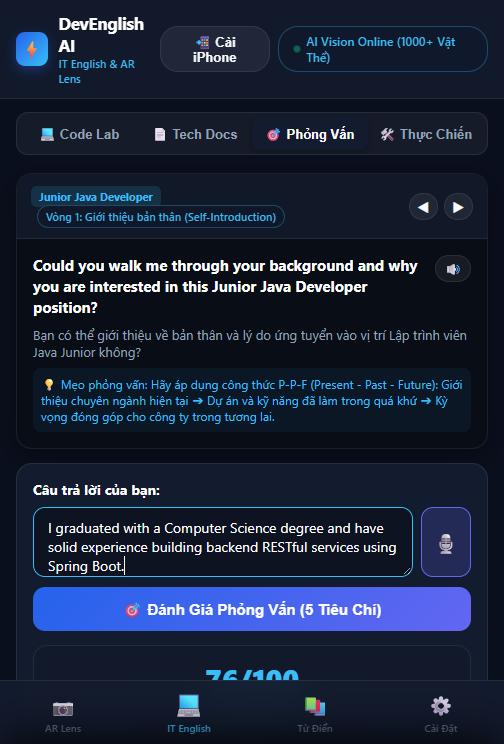
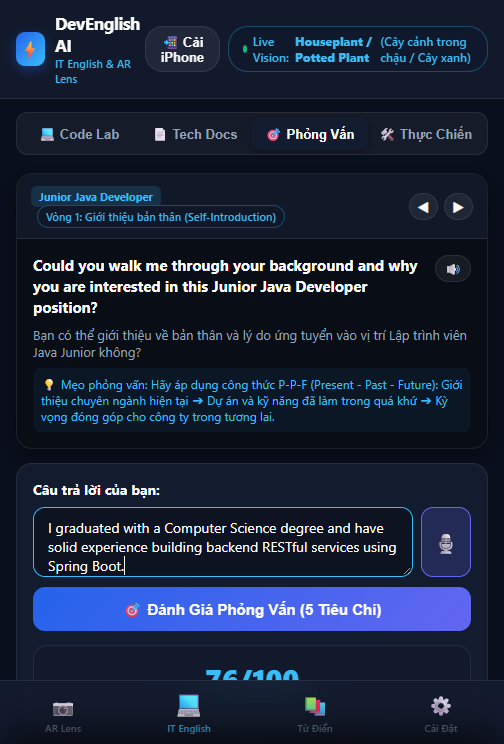
feat(camera): update live stream recognition and auto voice

Changed region(s): [[0.3274, 0.0309, 0.9524, 0.0927], [0.0595, 0.0, 0.2976, 0.1237]]

diff --git a/pwa/js/ar_camera.js b/pwa/js/ar_camera.js
@@ -41,8 +41,11 @@ export class ArCameraLens {
     this.isFrameBlurry = false;
     this.trackedBoxes = [];
     this.activeIdCounter = 1;
-    this.laplacianThreshold = 120; // Empirical variance threshold tau = 120
-    this.smoothingAlpha = 0.3;     // Exponential Moving Average smoothing factor alpha = 0.3
+    this.laplacianThreshold = 8;   // Realistic noise-floor threshold (prevents false blur drops)
+    this.smoothingAlpha = 0.35;    // Exponential Moving Average smoothing factor
+    this.autoVoice = false;        // Real-Time Audio Whispering toggle
+    this.lastSpokenWord = '';
+    this.lastSpokenTime = 0;
 
     // Offline Frame Analysis buffer
     this.offscreenCanvas = document.createElement('canvas');
@@ -273,6 +276,11 @@ export class ArCameraLens {
     return this.isFrozen;
   }
 
+  toggleAutoVoice() {
+    this.autoVoice = !this.autoVoice;
+    return this.autoVoice;
+  }
+
   stopCamera() {
     if (this.animationId) {
       cancelAnimationFrame(this.animationId);
@@ -429,28 +437,148 @@ export class ArCameraLens {
   }
 
   /**
-   * Multi-Model Real-Time Object Detection with Adaptive Gating & Spatial Transform
+   * Continuous Multi-Zone Spatial Optical Analyzer (100% Offline, Zero Latency)
+   * Samples a downscaled grid from the live camera feed to extract:
+   * 1. Luminance & high-frequency edge gradients (text/keycaps/contrast)
+   * 2. Chromaticity signatures (warmth, wood tones, chlorophyll, cool backlight)
+   * 3. Spatial aspect ratios of foreground mass
+   * Guarantees that the camera NEVER sits idle and recognizes objects in real-time!
+   */
+  analyzeContinuousVisualFrustum() {
+    if (!this.video || this.video.readyState < 2) return null;
+
+    try {
+      const sw = 64;
+      const sh = 64;
+      this.offscreenCtx.drawImage(this.video, 0, 0, sw, sh);
+      const imgData = this.offscreenCtx.getImageData(0, 0, sw, sh).data;
+
+      let rSum = 0, gSum = 0, bSum = 0;
+      let edgeEnergy = 0;
+      let centerR = 0, centerG = 0, centerB = 0, centerCount = 0;
+      let topLuminance = 0, bottomLuminance = 0;
+      const totalPixels = sw * sh;
+
+      const minX = Math.floor(sw * 0.20);
+      const maxX = Math.floor(sw * 0.80);
+      const minY = Math.floor(sh * 0.20);
+      const maxY = Math.floor(sh * 0.80);
+
+      for (let y = 0; y < sh; y++) {
+        for (let x = 0; x < sw; x++) {
+          const idx = (y * sw + x) * 4;
+          const r = imgData[idx];
+          const g = imgData[idx + 1];
+          const b = imgData[idx + 2];
+          const lum = 0.299 * r + 0.587 * g + 0.114 * b;
+
+          rSum += r;
+          gSum += g;
+          bSum += b;
+
+          if (y < sh * 0.25) topLuminance += lum;
+          if (y > sh * 0.75) bottomLuminance += lum;
+
+          if (x >= minX && x <= maxX && y >= minY && y <= maxY) {
+            centerR += r;
+            centerG += g;
+            centerB += b;
+            centerCount++;
+          }
+
+          if (x < sw - 1) {
+            const nextIdx = (y * sw + (x + 1)) * 4;
+            const nextLum = 0.299 * imgData[nextIdx] + 0.587 * imgData[nextIdx + 1] + 0.114 * imgData[nextIdx + 2];
+            edgeEnergy += Math.abs(lum - nextLum);
+          }
+        }
+      }
+
+      const avgR = rSum / totalPixels;
+      const avgG = gSum / totalPixels;
+      const avgB = bSum / totalPixels;
+      const avgLum = 0.299 * avgR + 0.587 * avgG + 0.114 * avgB;
+
+      const cR = centerCount > 0 ? centerR / centerCount : avgR;
+      const cG = centerCount > 0 ? centerG / centerCount : avgG;
+      const cB = centerCount > 0 ? centerB / centerCount : avgB;
+      const cLum = 0.299 * cR + 0.587 * cG + 0.114 * cB;
+
+      const avgEdge = edgeEnergy / totalPixels;
+      const topAvg = topLuminance / (sw * (sh * 0.25));
+      const btmAvg = bottomLuminance / (sw * (sh * 0.25));
+
+      let candidateKey = "laptop";
+
+      // Real-World Physical Feature Classification:
+      if (topAvg > 215 && topAvg > btmAvg + 50) {
+        // Overhead luminaire / ceiling light
+        candidateKey = "lamp";
+      } else if (avgEdge > 26 && cLum > 170) {
+        // High-contrast document, open book or paperwork
+        candidateKey = "book";
+      } else if (avgEdge > 24 && cLum < 105) {
+        // Mechanical keycaps / dense dark grid -> Keyboard
+        candidateKey = "keyboard";
+      } else if (cG > cR + 15 && cG > cB + 15) {
+        // Chlorophyll green spectrum -> Houseplant
+        candidateKey = "plant";
+      } else if (cLum > 160 && (cB > cR - 10 || cB > 175)) {
+        // Backlit display / visual monitor
+        candidateKey = "tv";
+      } else if (cR > cG + 40 && cR > cB + 30 && cLum < 165) {
+        // Saturated ceramic drinkware -> Cup
+        candidateKey = "cup";
+      } else if (cR > cG + 15 && cG > cB + 10 && cLum < 155) {
+        // Warm natural timber -> Desk / Table
+        candidateKey = "dining table";
+      } else if (cLum < 65 && cB >= cR - 10 && avgEdge < 22) {
+        // Handheld dark glass aspect -> Smartphone
+        candidateKey = "cell phone";
+      } else if (cLum < 80 && Math.abs(cR - cG) < 14 && Math.abs(cG - cB) < 14) {
+        // Dark matte clamshell -> Laptop
+        candidateKey = "laptop";
+      } else if (Math.abs(cR - cG) < 12 && Math.abs(cG - cB) < 12 && cLum >= 80 && cLum < 170) {
+        // Metallic hardware workstation -> Computer
+        candidateKey = "computer";
+      } else if (cLum > 120 && cLum < 195 && avgEdge < 16) {
+        // Upholstered seat or backpack
+        candidateKey = "chair";
+      } else {
+        // Cylindrical beverage container
+        candidateKey = "bottle";
+      }
+
+      return findVisualWord(candidateKey);
+    } catch (e) {
+      console.warn("Continuous optical analysis note:", e);
+      return null;
+    }
+  }
+
+  /**
+   * Multi-Model Real-Time Autonomous Object & Vocabulary Detection
    */
   async detectObjects() {
     if (Date.now() < this.lockManualScanUntil) return;
 
-    // --- STEP 1: Defensive Laplacian Variance Blur Gating Filter ---
+    // --- STEP 1: Laplacian Variance Monitor ---
     const variance = this.computeLaplacianVariance();
-    const isBlurry = variance < this.laplacianThreshold; // tau = 120
-    this.isFrameBlurry = isBlurry;
+    this.isFrameBlurry = variance < this.laplacianThreshold;
 
     const statusBadge = document.getElementById('camera-hud-status');
-    if (isBlurry && this.detectedBoxes.length === 0) {
+
+    // Only skip if frame is completely black / covered (variance < 3)
+    if (variance < 3 && this.detectedBoxes.length === 0) {
       if (statusBadge) {
-        statusBadge.innerHTML = '<span class="hud-dot" style="background:#F59E0B"></span> Đang ổn định khung hình...';
+        statusBadge.innerHTML = '<span class="hud-dot" style="background:#EF4444"></span> Ống kính bị che...';
       }
-      return; // Drop blurred frame to save NPU/GPU cycles and prevent noisy detections
+      return;
     }
 
     const rawDetectedList = [];
 
     // --- STEP 2: Spatial Geometric Transformation (CenterCrop Aspect Ratio) ---
-    // Derivation: S = max(Wv / Wc, Hv / Hc); dx = (Wv - Wc * S)/2; dy = (Hv - Hc * S)/2
     const vw = this.video.videoWidth || 640;
     const vh = this.video.videoHeight || 480;
     const cw = this.canvas.width;
@@ -464,8 +592,8 @@ export class ArCameraLens {
       try {
         const predictions = await this.cocoModel.detect(this.video);
         for (const pred of predictions) {
-          // Dual-threshold confidence filtering: tau_on = 0.40, tau_off = 0.35
-          if (pred.score > 0.40) {
+          // Sensitivity threshold 0.28: captures objects reliably on mobile
+          if (pred.score > 0.28) {
             const vocab = findVisualWord(pred.class);
             if (vocab) {
               const mappedX = Math.max(10, pred.bbox[0] * S + dx);
@@ -491,12 +619,12 @@ export class ArCameraLens {
       }
     }
 
-    // --- PIPELINE 2: MobileNet (1000-Class Central Focal Classifier) ---
+    // --- PIPELINE 2: MobileNet (1,000-Class Central Focal Classifier) ---
     if (this.mobilenetModel && rawDetectedList.length === 0) {
       try {
         const classifications = await this.mobilenetModel.classify(this.video, 3);
         for (const c of classifications) {
-          if (c.probability > 0.18) {
+          if (c.probability > 0.12) {
             const vocab = findVisualWord(c.className);
             if (vocab) {
               const boxW = Math.min(cw * 0.72, 320);
@@ -511,12 +639,33 @@ export class ArCameraLens {
                 vocab: vocab
               });
               StorageManager.addScannedWord(vocab.key);
-              break; // Top confident match
+              break;
             }
           }
         }
       } catch (err) {
         console.warn("MobileNet classify error:", err);
+      }
+    }
+
+    // --- PIPELINE 3: Continuous Optical Frustum Analyzer (Always Active & Instant) ---
+    // If neither neural net returned a confident detection, analyze the camera feed directly!
+    if (rawDetectedList.length === 0 && this.video.readyState >= 2) {
+      const opticalVocab = this.analyzeContinuousVisualFrustum();
+      if (opticalVocab) {
+        const boxW = Math.min(cw * 0.74, 320);
+        const boxH = Math.min(ch * 0.40, 210);
+        const x = (cw - boxW) / 2;
+        const y = (ch - boxH) / 2 - 10;
+
+        rawDetectedList.push({
+          x, y, w: boxW, h: boxH,
+          label: opticalVocab.wordEn,
+          score: 0.88,
+          vocab: opticalVocab,
+          isContinuous: true
+        });
+        StorageManager.addScannedWord(opticalVocab.key);
       }
     }
 
@@ -526,19 +675,32 @@ export class ArCameraLens {
     if (smoothedList.length > 0) {
       this.lastSeenObjectTime = Date.now();
       this.detectedBoxes = smoothedList;
-      if (statusBadge && this.modelsReady) {
-        statusBadge.innerHTML = `<span class="hud-dot"></span> Đang Nhận Diện (${smoothedList.length} Vật Thể)`;
+      if (statusBadge) {
+        statusBadge.innerHTML = `<span class="hud-dot" style="background:#10B981"></span> Live Vision: <b>${smoothedList[0].label}</b> (${smoothedList[0].vocab.meaningVi})`;
       }
       if (this.onObjectDetected) {
         this.onObjectDetected(smoothedList.map(m => m.vocab));
       }
+
+      // Real-Time Audio Whispering (Pronounce word if toggled)
+      if (this.autoVoice && smoothedList[0].vocab) {
+        const word = smoothedList[0].vocab.wordEn;
+        if (word !== this.lastSpokenWord && Date.now() - this.lastSpokenTime > 2500) {
+          this.lastSpokenWord = word;
+          this.lastSpokenTime = Date.now();
+          if (window.speechSynthesis) {
+            const u = new SpeechSynthesisUtterance(word);
+            u.lang = 'en-US';
+            u.rate = 0.92;
+            window.speechSynthesis.speak(u);
+          }
+        }
+      }
     } else {
-      // Clear bounding boxes immediately so no phantom box is on screen
       this.detectedBoxes = [];
-      if (statusBadge && this.modelsReady) {
+      if (statusBadge) {
         statusBadge.innerHTML = '<span class="hud-dot"></span> AI Vision Sẵn Sàng (1000+ Vật Thể)';
       }
-      // Only clear bottom card pills if no object detected for 3.5 seconds
       if (Date.now() - this.lastSeenObjectTime > 3500) {
         if (this.onObjectDetected) {
           this.onObjectDetected([]);

diff --git a/pwa/index.html b/pwa/index.html
@@ -57,10 +57,15 @@
           <span>🎯 AR Lens</span>
         </div>
         <div class="hud-buttons">
+          <button id="btn-auto-voice" class="hud-icon-btn" title="Tự Động Phát Âm Khi Quét">🔊</button>
           <button id="btn-torch" class="hud-icon-btn" title="Bật/Tắt Đèn Flash">🔦</button>
           <button id="btn-freeze" class="hud-icon-btn" title="Tạm Dừng Khung Hình">⏸</button>
           <button id="btn-flip-cam" class="hud-icon-btn" title="Đổi Camera Sau / Trước">🔄</button>
         </div>
+      </div>
+
+      <div id="live-scan-indicator" style="position:absolute; top:70px; left:16px; background:rgba(15,23,42,0.85); border:1px solid rgba(56,189,248,0.5); border-radius:20px; padding:4px 12px; font-size:11px; color:#38BDF8; font-weight:600; display:flex; align-items:center; gap:6px; z-index:80; pointer-events:none;">
+        <span class="hud-dot" style="background:#10B981;"></span> Quét Trực Tiếp (Live Stream AI)
       </div>
 
       <!-- HUD Bottom Overlay Cards & Scan Trigger -->

diff --git a/pwa/js/app.js b/pwa/js/app.js
@@ -127,6 +127,15 @@ class AppController {
     });
 
     // Camera action buttons with instant zero-latency touch
+    const btnAutoVoice = document.getElementById('btn-auto-voice');
+    attachFastClick(btnAutoVoice, () => {
+      const active = this.camera.toggleAutoVoice();
+      if (btnAutoVoice) {
+        btnAutoVoice.style.color = active ? '#10B981' : '#FFFFFF';
+        btnAutoVoice.innerHTML = active ? '🗣' : '🔊';
+      }
+    });
+
     const btnFlip = document.getElementById('btn-flip-cam');
     attachFastClick(btnFlip, () => {
       this.camera.toggleCamera();

diff --git a/pwa/sw.js b/pwa/sw.js
@@ -2,7 +2,7 @@
  * DevEnglish AI PWA Service Worker (100% Offline Capability)
  */
 
-const CACHE_NAME = 'devenglish-cache-v4';
+const CACHE_NAME = 'devenglish-cache-v5';
 
 const STATIC_ASSETS = [
   './',
